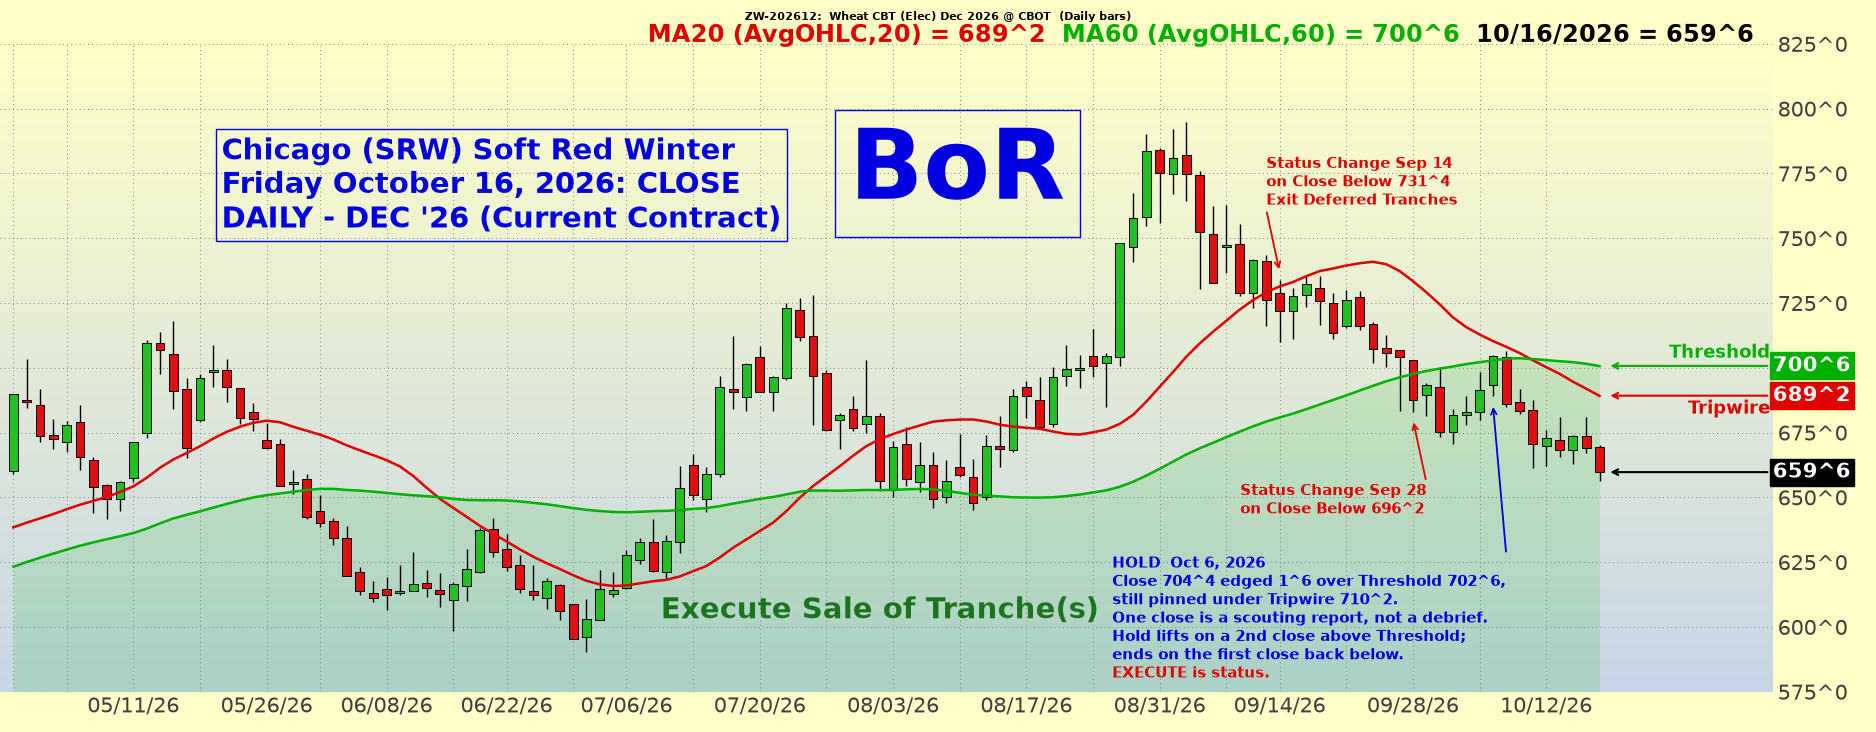
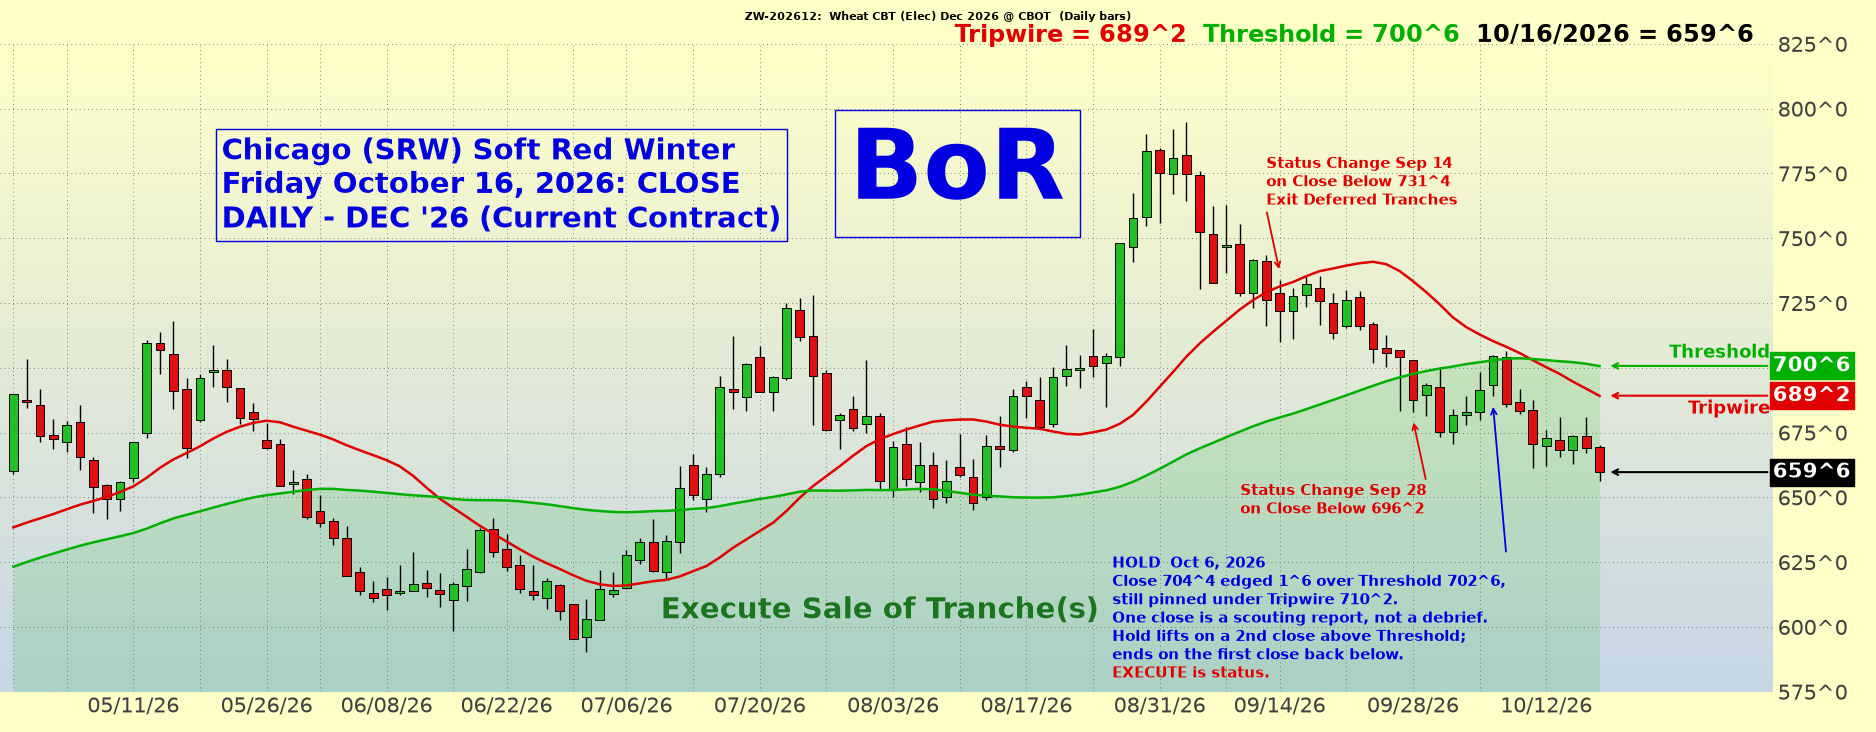
BoR: public chart copy drops moving-average header
- charts/WHEAT_SRW_BOR_Dhisto.png replaced with the current engine render
  (header reads Tripwire / Threshold, no MA20/MA60 AvgOHLC labels)
- bor_update.py --live now writes WHEAT_SRW_BOR_Dhisto.png alongside
  WHEAT_SRW_BOR_D.png so the box-o-rox page copy never falls behind

Changed region(s): [[0.3401, 0.0301, 0.7111, 0.0601]]

diff --git a/tools/bor/bor_update.py b/tools/bor/bor_update.py
@@ -19,6 +19,7 @@ import html
 import json
 import math
 import re
+import shutil
 import sys
 from datetime import date
 from pathlib import Path
@@ -37,6 +38,8 @@ DATA_DIR = REPO_ROOT / "data" / "bor"
 HISTORY = DATA_DIR / "WHEAT_SRW_BOR_D_history.csv"
 ANNOTATIONS = DATA_DIR / "WHEAT_SRW_BOR_D_annotations.json"
 LIVE_OUT = REPO_ROOT / "charts" / CHART_NAME
+# Public Box-o-Rox page (marketbulletsllc.com/box-o-rox) embeds this name; kept identical on every live run
+LIVE_COPIES = [REPO_ROOT / "charts" / "WHEAT_SRW_BOR_Dhisto.png"]
 PREVIEW_DIR = Path("M:/preview")
 PREVIEW_OUT = PREVIEW_DIR / CHART_NAME
 REVIEW_DIR = PREVIEW_DIR
@@ -577,6 +580,9 @@ def main():
         sys.exit(f"Drive {PREVIEW_DIR.anchor} not found — the preview folder lives there.")
     out = LIVE_OUT if args.live else PREVIEW_OUT
     draw(d, ann, out)
+    if args.live:
+        for copy in LIVE_COPIES:
+            shutil.copyfile(out, copy)
     first_visible = d.Date.iloc[-VISIBLE_BARS] if len(d) >= VISIBLE_BARS else d.Date.iloc[0]
     flags, quiet, sugg = review(d, ann, first_visible)
     review_path = REVIEW_DIR / f"review-{d.Date.iloc[-1]:%Y-%m-%d}.html"
